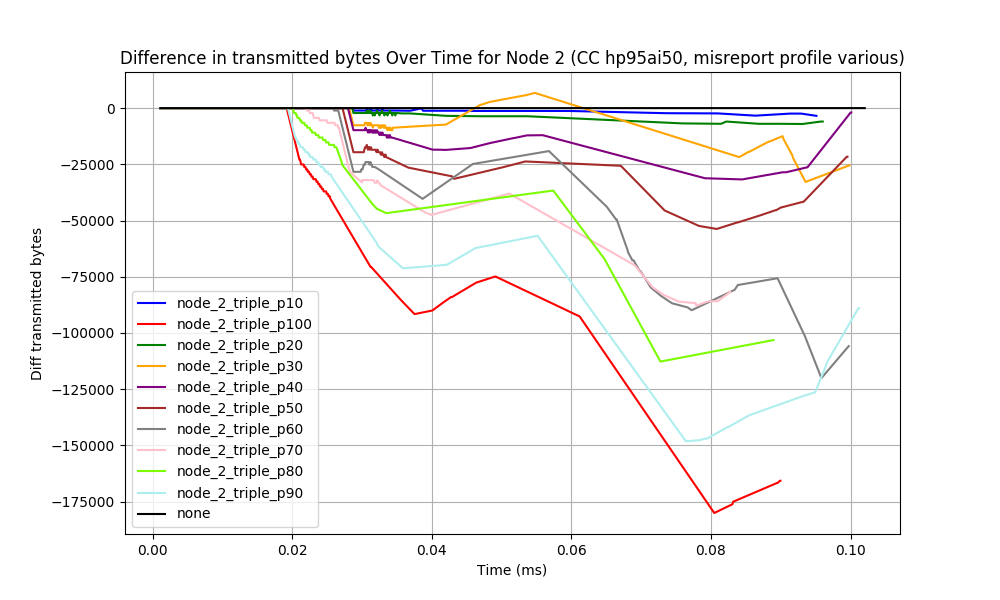
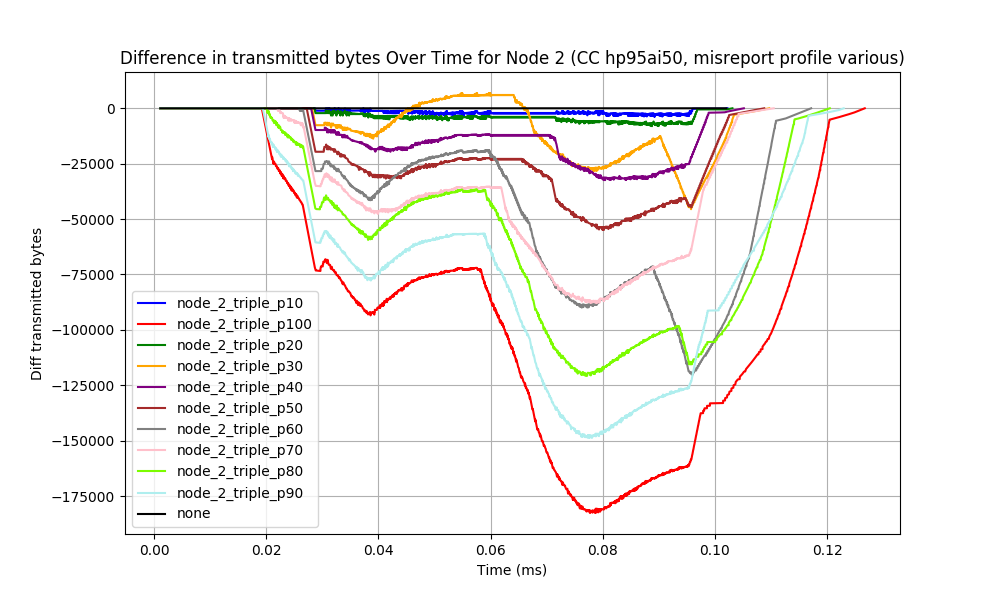
Linear interpolation for more continuous difference graphs wrt timestamps; re-run simulations + graph generations for smaller probability step sizes
Move graph legends for better visibility

diff --git a/analysis/graph/stacked_diff_tx_bytes_graph.py b/analysis/graph/stacked_diff_tx_bytes_graph.py
@@ -1,4 +1,6 @@
 import argparse
+import bisect
+from typing import List
 
 from graph_helpers import (
     get_file_suffix,
@@ -8,6 +10,24 @@ from graph_helpers import (
     plot_stacked_data_points,
     process_node_state_trace_file,
 )
+
+# linearly interpolate between two baseline points
+def get_baseline_interpolation(t, baseline_times, baseline_tx_bytes):
+    # type: (int, List[int], List[int]) -> float
+    if t in baseline_times:
+        idx = baseline_times.index(t)
+        return baseline_tx_bytes[idx]
+
+    idx = bisect.bisect_left(baseline_times, t)
+    # range endpoints
+    if idx == 0:
+        return baseline_tx_bytes[0]
+    if idx == len(baseline_times):
+        return baseline_tx_bytes[-1]
+
+    t1, t2 = baseline_times[idx - 1], baseline_times[idx]
+    tx1, tx2 = baseline_tx_bytes[idx - 1], baseline_tx_bytes[idx]
+    return tx1 + (t - t1) * (tx2 - tx1) / (t2 - t1)
 
 if __name__ == '__main__':
     parser = argparse.ArgumentParser(description='graph output bytes')
@@ -41,21 +61,22 @@ if __name__ == '__main__':
         times_ms = [t / 1e6 for t in times]
         data_points_li.append((misrep, times_ms, tx_bytes))
 
-    # get baseline for diffs
+    # Get baseline for diffs
     baseline_file_suffix = get_file_suffix(topo=topo, flow=flow, cc_algo=cc_algo, misrep='none')
     baseline_trace_file = get_mix_trace_filename(trace_name='node_trace', file_suffix=baseline_file_suffix)
     baseline_times, baseline_tx_bytes = process_node_state_trace_file(file_name=baseline_trace_file, node_num=node_num)
     baseline_times_ms = [t / 1e6 for t in baseline_times]
     data_points_li.append(('none', baseline_times_ms, baseline_tx_bytes))
-    baseline_ts_map = {t:tx for t, tx in zip(baseline_times_ms, baseline_tx_bytes)}
 
     diff_points_li = []
     for misrep, times_ms, tx_bytes in data_points_li:
         truncated_times, diff_points = [], []
         for t, tx in zip(times_ms, tx_bytes):
-            if t in baseline_ts_map:
-                truncated_times.append(t)
-                diff_points.append(tx - baseline_ts_map[t])
+            baseline_tx = get_baseline_interpolation(t, baseline_times_ms, baseline_tx_bytes)
+            truncated_times.append(t)
+            diff_points.append(tx - baseline_tx)
+
+        print(misrep + " -> " + str(len(diff_points)))
         diff_points_li.append((misrep, truncated_times, diff_points))
 
     stacked_misrep_tok = 'various'

diff --git a/analysis/graph/graph_helpers.py b/analysis/graph/graph_helpers.py
@@ -105,7 +105,8 @@ def plot_stacked_data_points(data_points_li, xlabel, ylabel, title, out_file_nam
     plt.ylabel(ylabel)
     plt.title(title)
     plt.grid(True)
-    plt.legend()
+    plt.legend(bbox_to_anchor=(1.05, 1), loc='upper left')
+    plt.tight_layout()
 
     # Save the plot as a PNG file
     print('saving graph to {}'.format(out_file_name))
